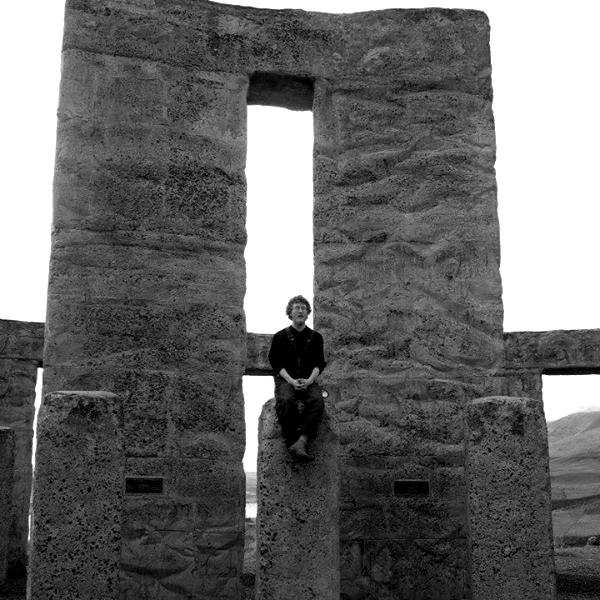
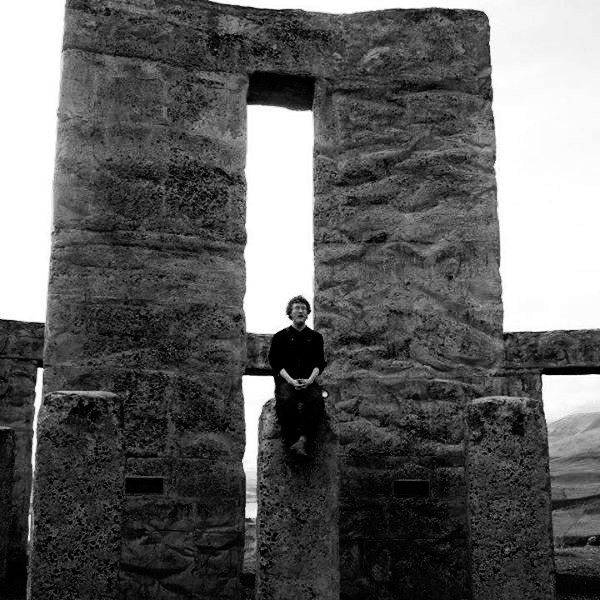
curves

Changed region(s): [[0.39, 0.78, 0.45, 0.81], [0.99, 0.99, 1.0, 1.0], [0.93, 0.69, 0.96, 0.72]]

diff --git a/works.md b/works.md
@@ -5,7 +5,7 @@ layout: page
 ---
 
 Most of the things I build can't be viewed through your computer. Some can:
-
+_______
 ## SIGNAL: A Book of Secrets
 
 
